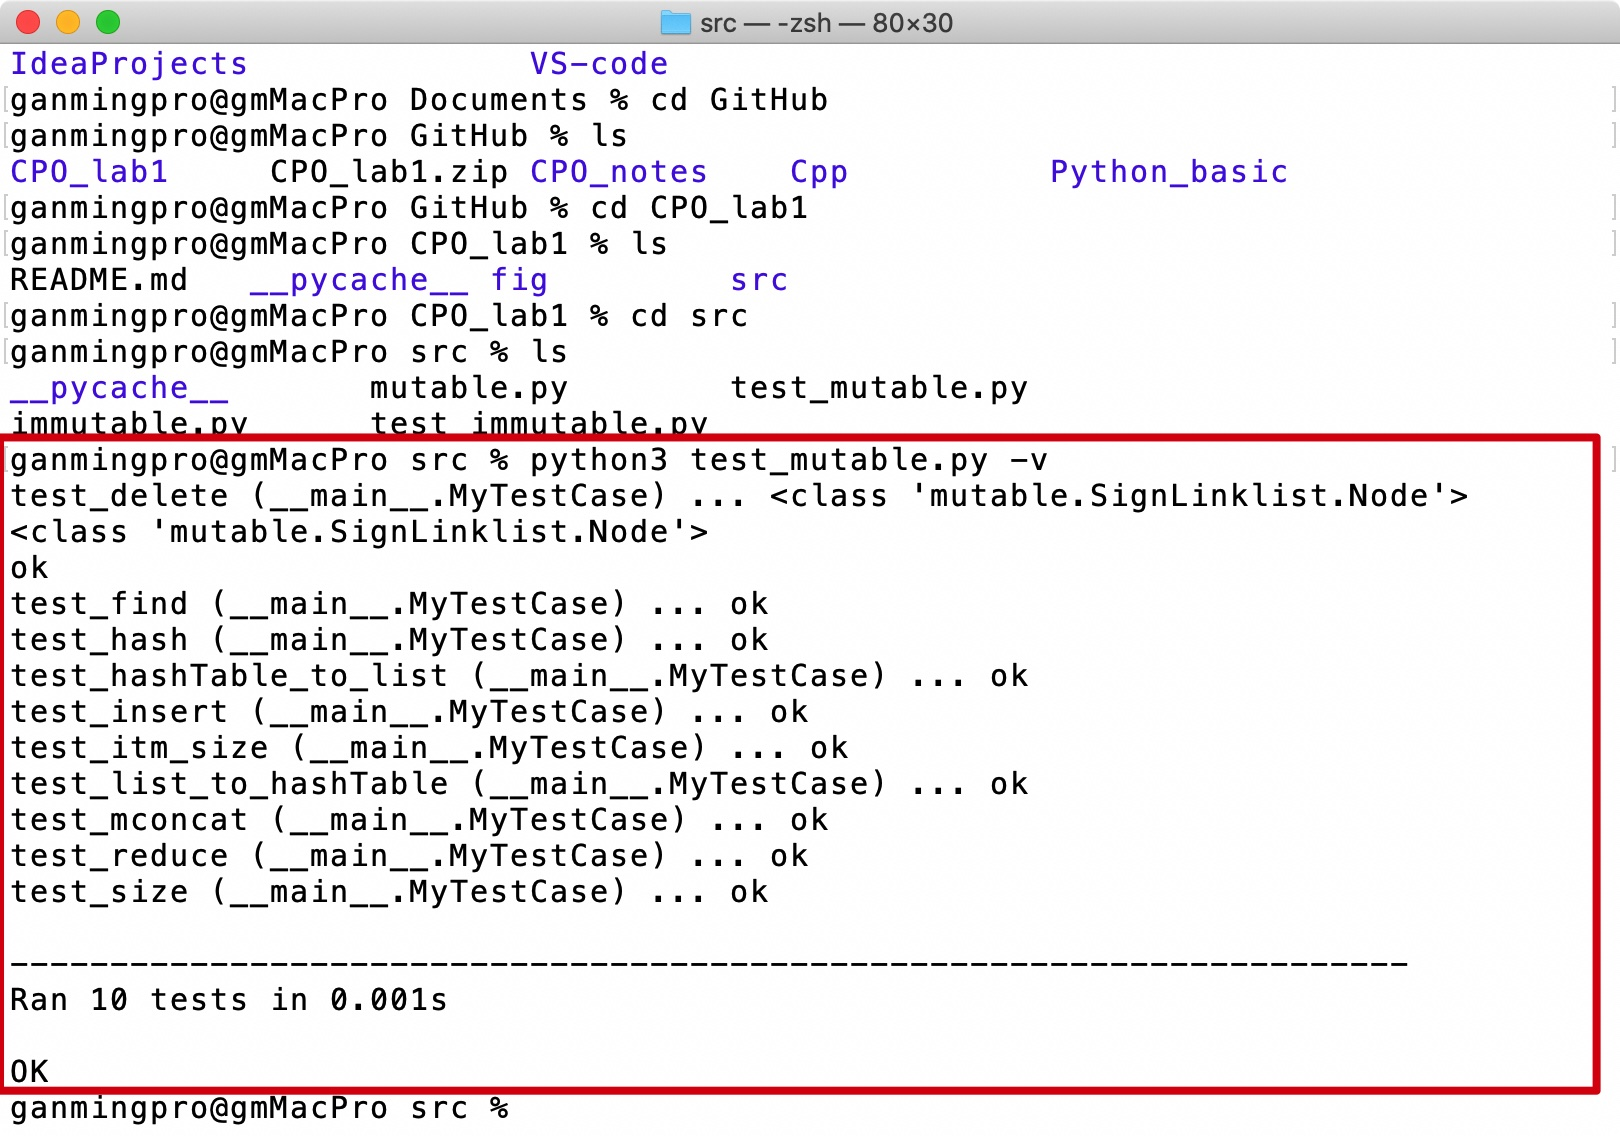
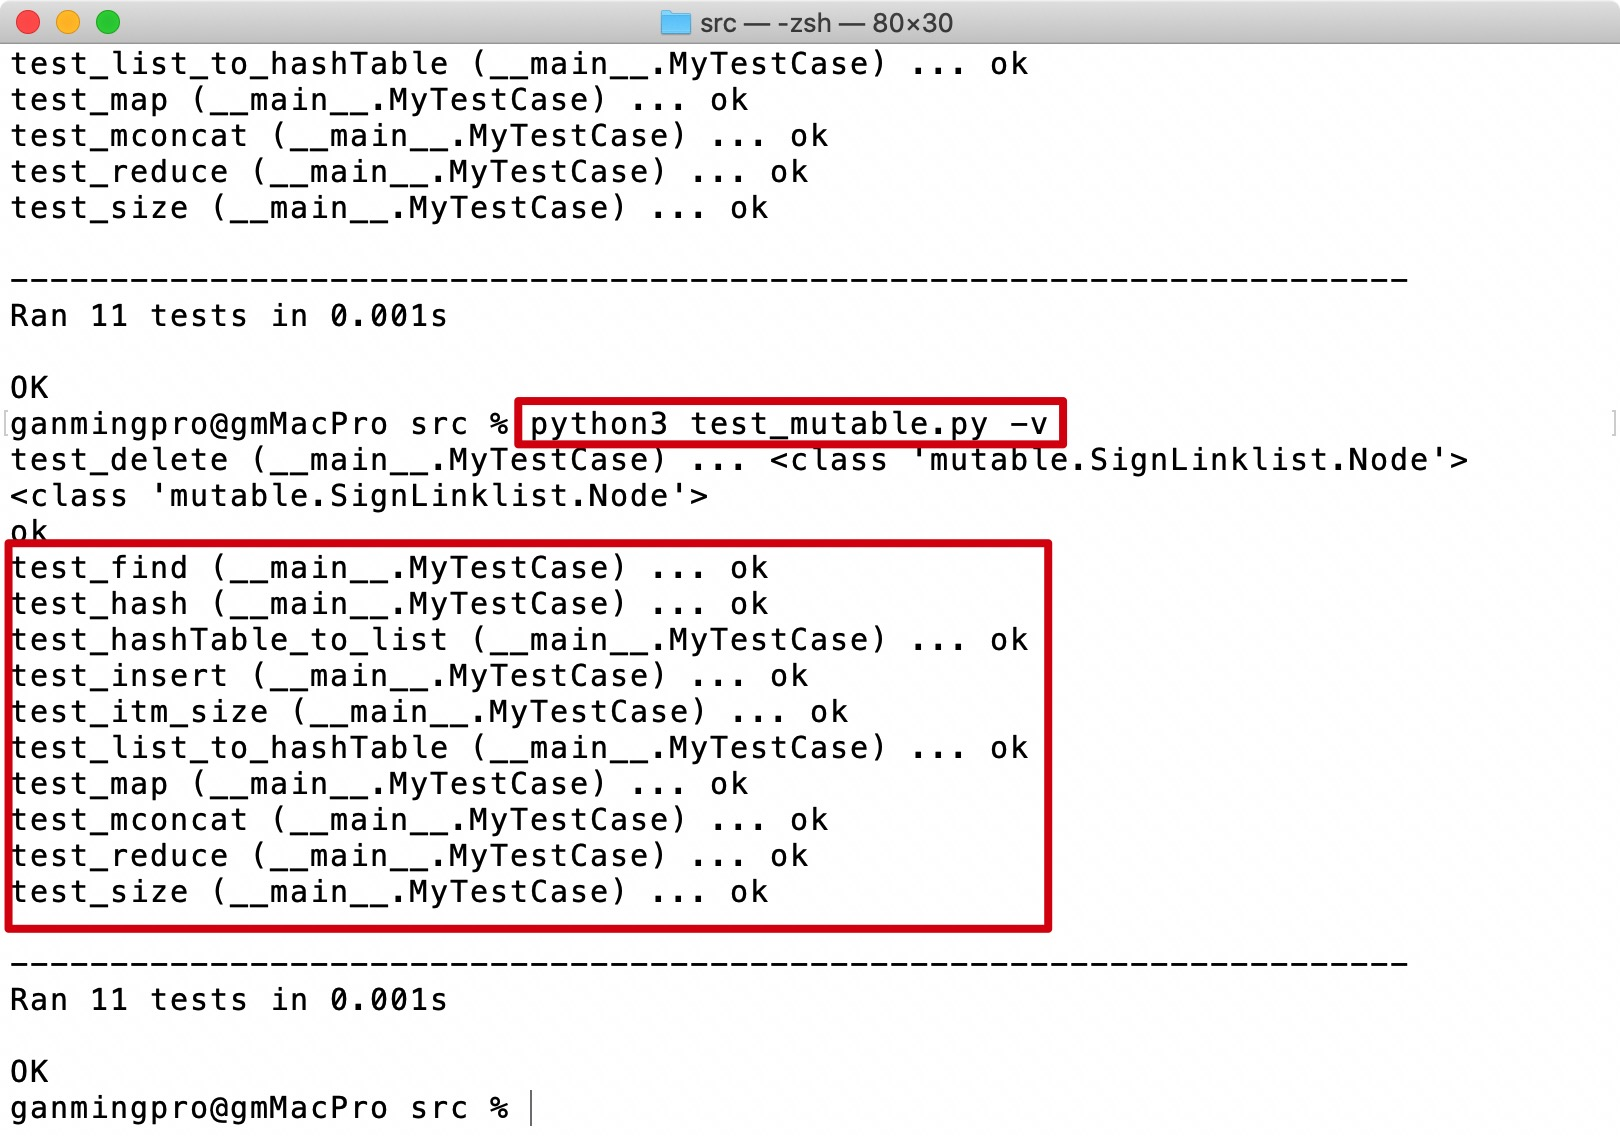
updata

diff --git a/src/mutable.py b/src/mutable.py
@@ -94,6 +94,7 @@ class HashTable:
         for i in range(len(lst)):
             self.insert(lst[i])
 
+    # the insert function is add_to_tail
     def insert(self, k):
         i = self.hash(k)
         if self.find(k):
@@ -134,12 +135,23 @@ class HashTable:
                 self.insert(j)
         return self
 
-    def reduce(self, sum):
-        result = 0
+    def reduce(self, f, initial_state):
+        state = initial_state
         for i in range(self.size):
-            for j in self.T[i]:
-                result += j
-        return result
+            if(self.T[i]):
+                current = self.T[i].head
+                while current is not None:
+                    state = f(state, current.item)
+                    current = current.next
+        return state
+
+    def map(self, f):
+        for i in range(self.size):
+            current = SignLinklist.Node(self.T[i].head.item)
+            while current:
+                self.T[i].head.item = f(current.item)
+                current = current.next
+        return self
 
 
 
@@ -147,20 +159,29 @@ class HashTable:
         i = self.hash(k)
         return self.T[i].find(k)
 
+
 if __name__ == '__main__':
-    ht = HashTable()
-    ht.insert(1)
-    ht.insert(11)
-    ht.insert(21)
-    ht.insert(18)
-    # ht.insert(29)
-    # ht.insert(28)
-    # ht.insert(38)
-    # ht.insert(219)
-    ht1 = HashTable(10,[1, 32, 5, 67, 8])
-    # ht.mconcat(ht1)
+    ht = HashTable(10,[1, 2, 3])
     print('\n'.join(map(str, ht.T)))
-    print(ht.reduce("sum"))
+    # ht=ht.delete(1)
+    print(ht.itm_size())
+
+# if __name__ == '__main__':
+#     ht = HashTable(3,[1, 2, 3])
+#     # ht.insert(1)
+#     # ht.insert(11)
+#     # ht.insert(21)
+#     # ht.insert(18)
+#     # # ht.insert(29)
+#     # # ht.insert(28)
+#     # # ht.insert(38)
+#     # # ht.insert(219)
+#     # ht1 = HashTable(10,[1, 32, 5, 67, 8])
+#     # ht.mconcat(ht1)
+#     ht.reduce(lambda st, e: st + e, 0)
+#     print(ht.map(str).hashTable_to_list())
+#     # print('\n'.join(map(str, ht.T)))
+    # print(ht.reduce("sum"))
 
 #     print('\n'.join(map(str, ht.T)))
 #

diff --git a/src/test_mutable.py b/src/test_mutable.py
@@ -44,8 +44,27 @@ class MyTestCase(unittest.TestCase):
         self.assertEqual(t.mconcat(t2).hashTable_to_list(), [10, 1, 3, 4, 5, 9])
 
     def test_reduce(self):
-        t = HashTable(10, [1, 2, 3, 4, 5])
-        self.assertEqual(t.reduce("sum"), 15)
+        # sum of empty list
+        lst = HashTable(0)
+        self.assertEqual(lst.reduce(lambda st, e: st + e, 0), 0)
+        # sum of list
+        lst = HashTable(10 , [1, 2, 3])
+        self.assertEqual(lst.reduce(lambda st, e: st + e, 0), 6)
+        # size
+        test_data = [
+            [],
+            [1],
+            [1, 2]
+        ]
+        for e in test_data:
+            lst = HashTable(10, e)
+            self.assertEqual(lst.reduce(lambda st, _: st + 1, 0), lst.itm_size())
+
+    def test_map(self):
+        lst = HashTable(10, [0, 1, 2, 3, 4, 5, 6, 7, 8, 9])
+        lst.map(str)
+        self.assertEqual(lst.hashTable_to_list(), ["0", "1", "2", "3", "4", "5", "6", "7", "8", "9"])
+
 
     def test_find(self):
         t = HashTable()
